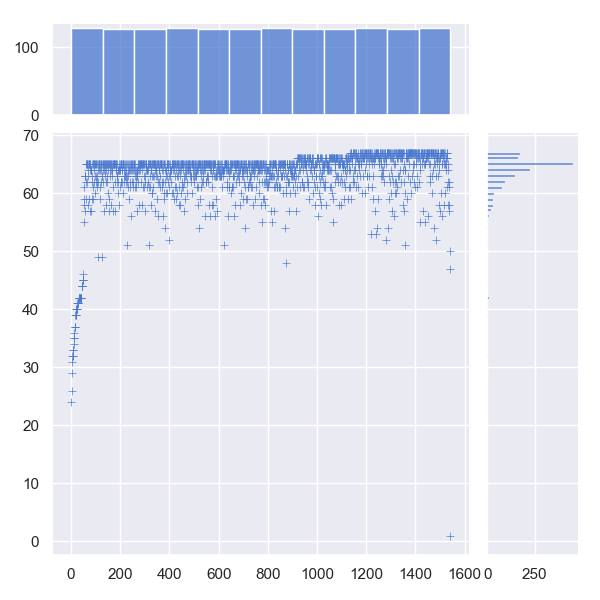
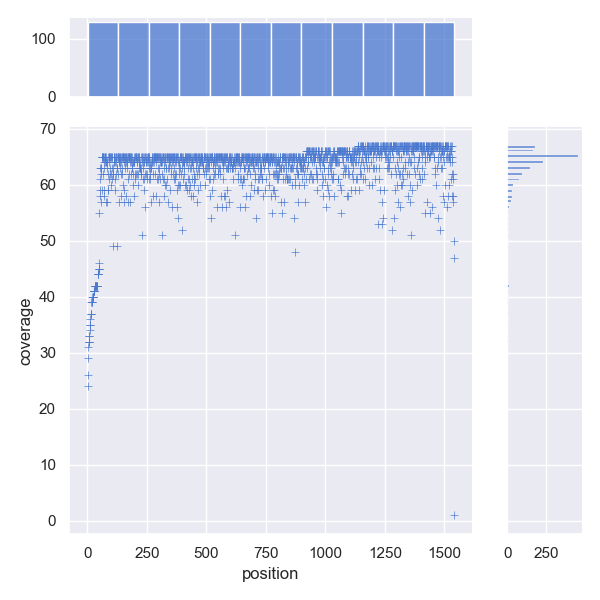
add violin and box mode

diff --git a/tmplot.py b/tmplot.py
@@ -21,7 +21,7 @@ def arg_parser():
             formatter_class = argparse.RawTextHelpFormatter)
 
     # mode option
-    parser.add_argument("mode", choices = ['plot', 'scatter', 'hist', 'bar', 'barh', 'pie', 'window', 'joint', 'empty'],
+    parser.add_argument("mode", choices = ['plot', 'scatter', 'hist', 'bar', 'barh', 'pie', 'window', 'joint', 'violin', 'box', 'empty'],
             help = 'choose plot mode'\
             '\nplot    : connect the dots and draw them.'\
             '\nscatter : NOT connect the dots and draw them.'\
@@ -31,6 +31,7 @@ def arg_parser():
             '\npie     : draw pie chart'\
             '\nwindow  : draw moving-average-line'\
             '\njoint   : draw jointplot'\
+            '\nviolin  : draw violin plot'\
             '\nempty   : draw NOTHING')
 
     # basic data option
@@ -78,10 +79,10 @@ def arg_parser():
     parser.add_argument("--ynorm", action = "store_true",
             help = "Flag whether inputed y data normalization"\
                     "If the data type is str, an error will occur")
-    parser.add_argument("--xstand", action = "store_true",
+    parser.add_argument("--xstd", action = "store_true",
             help = "Flag whether inputed x data standardization"\
                     "If the data type is str, an error will occur")
-    parser.add_argument("--ystand", action = "store_true",
+    parser.add_argument("--ystd", action = "store_true",
             help = "Flag whether inputed y data standardization"\
                     "If the data type is str, an error will occur")
 
@@ -200,8 +201,16 @@ def common_plotter(args):
             if args.hist_bins != 0:
                 bins = args.hist_bins
             if args.hist_bins != 0 and args.hist_bins_width != 0:
-                print("[WARN] When --hist-bins-width and --hist-bins are used together, --hist-bins takes precedence")
+                print("[WARN] When --hist-bins-width and --hist-bins are used together, --hist-bins takes precedence", file = stdout)
         print("[INFO] number of histogram bins : {}".format(bins), file = sys.stdout)
+
+    elif args.mode == "violin" or args.mode == "box":
+        if args.ydata != "-":
+            print("[WARN] If violin or box mode, inputed ydata is ignored", file = sys.stdout)
+        if args.xdata == "-":
+            xdata = data_from_pipe1(args.xtype)
+        else:
+            xdata = data_from_file(args.xdata, args.xtype)
 
     elif args.mode == "bar" or args.mode == "barh":
         xdata, ydata = data_parser(args)
@@ -213,11 +222,11 @@ def common_plotter(args):
     # data modify
     if args.xnorm == True:
         xdata = data_normalize(xdata)
-    if args.xstand == True:
+    if args.xstd == True:
         xdata = data_standardize(xdata)
     if args.ynorm == True:
         ydata = data_normalize(ydata)
-    if args.ystand == True:
+    if args.ystd == True:
         ydata = data_standardize(ydata)
 
 
@@ -325,8 +334,19 @@ def common_plotter(args):
 
     elif args.mode == "joint":
         jointplot = sns.jointplot(x = xdata, y = ydata, ratio = args.joint_ratio , marginal_ticks=True, marker = args.joint_marker)
+        jointplot.ax_joint.set_xlabel(args.xlabel)
+        jointplot.ax_joint.set_ylabel(args.ylabel)
+        jointplot.figure.tight_layout()
+
+    elif args.mode == "violin":
+        violin = ax.violinplot([xdata])
         if args.label != None:
-            legend_list.append(jointplot)
+            legend_list.append(violin)
+
+    elif args.mode == "box":
+        box = ax.boxplot([xdata])
+        if args.label != None:
+            legend_list.append(box)
 
     elif args.mode == "empty":
         pass

diff --git a/README.md b/README.md
@@ -29,7 +29,6 @@ sed -e "1i#\!$(which python3)" -i tmplot.py
 
 ## Update
 ~~~sh
-git fetch origin main && \
 git fetch origin main && git reset --hard origin/main && \
 sed -e "1i#\!$(which python3)" -i tmplot.py
 ~~~
@@ -80,11 +79,19 @@ sed -e "1i#\!$(which python3)" -i tmplot.py
 </a>
 
 <a href=#window1>
-    <img src="img/window1.png" class="galleryIterm" width=200px></img>
+    <img src="img/window1.png" class="galleryItem" width=200px></img>
 </a>
 
 <a href=#joint1>
-    <img src="img/joint1.png" class="galleryIterm" width=200px></img>
+    <img src="img/joint1.png" class="galleryItem" width=200px></img>
+</a>
+
+<a href=#violin1>
+    <img src="img/violin1.png" class="galleryItem", width=200px></img>
+</a>
+
+<a href=#box1>
+    <img src="img/box1.png" class="galleryItem", width=200px></img>
 </a>
 
 <a href=#empty1>
@@ -107,7 +114,7 @@ for i in {0..100}; do echo ""; done | awk '{print rand(), rand()}' | tmplot.py s
 <a id="hist1"></a>
 Ex. hist1
 ~~~sh
-cat data/grauss.0.1.10k.txt | tmplot.py hist -x - -y - -p hist1 -t t=p --label gauss.0.1.10k --hist-peak-highlight
+cat data/gauss.0.1.10k.txt | tmplot.py hist -x - -y - -p hist1 -t t=p --label gauss.0.1.10k --hist-peak-highlight
 ~~~
 
 <a id="hist2"></a>
@@ -119,7 +126,7 @@ for i in {0..100}; do echo ""; done | awk '{print rand()}' | tmplot.py hist -x -
 <a id="hist2"></a>
 Ex. hist3
 ~~~sh
-cat data/grauss.0.1.10k.txt | awk '{if($1 > 0){print $0}}' | tmplot.py hist -x - -y - --xlog --hist-bins 100 -p hist3 -t t=p --color blue --ylog --xlim "[0:100]"
+cat data/gauss.0.1.10k.txt | awk '{if($1 > 0){print $0}}' | tmplot.py hist -x - -y - --xlog --hist-bins 100 -p hist3 -t t=p --color blue --ylog --xlim "[0:100]"
 ~~~
 
 <a id="bar1"></a>
@@ -149,7 +156,19 @@ cat data/window_data.txt| tmplot.py window -x - -y - --window-size 50 -p window1
 <a id="joint1"></a>
 Ex. joint1
 ~~~sh
-cat data/window_data.txt | tmplot.py joint -x - -y - -p joint1 -t t=p -xl position -yl coverage
+cat data/window_data.txt | tmplot.py joint -x - -y - -p joint1 -xl position -yl coverage
+~~~
+
+<a id="violin1"></a>
+Ex. violin1
+~~~sh
+cat data/gauss.4.5.10k.txt | tmplot.py violin -x - -y - -p violin1 -xl gauss.4.5.10k -yl Distribution -t t=p
+~~~
+
+<a id="box1"></a>
+Ex. box1
+~~~sh
+cat data/gauss.3.3.20k.txt | tmplot.py box -x - -y - -xl gauss.3.3.20k -yl Distribution -p box1 -t t=p
 ~~~
 
 <a id="empty1"></a>
@@ -167,7 +186,7 @@ tmplot.py empty -x - -y - -xl e1 -yl e2 -p empty1 -t t=p --xline "[1,2,3]" --yli
 | PNG output                                        | O                   | default output                                                                    |
 | JPG output                                        | O                   | --jpg                                                                             |
 | PDF output                                        | O                   | --pdf                                                                             |
-| ps output                                         | O                   | -ps                                                                               |
+| ps output                                         | O                   | --ps                                                                              |
 | delimiter characters in PIPE input                | O                   | -s / --split  "\t"                                                                |
 | Specify input data type in xdata, ydata           | O                   | --xtype int, --xtype float, --xtype str, (ydata is the same way)                  |
 | set picture title                                 | O                   | --title title                                                                     |
@@ -179,8 +198,8 @@ tmplot.py empty -x - -y - -xl e1 -yl e2 -p empty1 -t t=p --xline "[1,2,3]" --yli
 | Draw a barplot                                    | O                   | cat test.txt &#124; tmplot.py bar -x - -y -                                       |
 | Draw a pie chart                                  | O                   | cat test.txt &#124; tmplot.py pie -x - -y -                                       |
 | Draw a bar chart                                  | O                   | cat test.txt &#124; tmplot.py bar -x - -y -                                       |
-| Draw a violin plot                                | X                   | Not supported due to differences in data structure                                |
-| Draw a box plot                                   | X                   | Not supported due to differences in data structure                                |
+| Draw a violin plot                                | X                   | Only one of the x data is supported in the data structure                         |
+| Draw a box plot                                   | X                   | Only one of the x data is supported in the data structure                         |
 | Draw NOTHING                                      | O                   | cat test.txt &#124; tmploy.py empy -x - -y -                                      |
 | Draw additional perpendicular line to the axis    | O                   | --xline "[0.3,-0.1,0.5]" (yline is the same way)                                  |
 | Change additional perpenddicular line to the axis | O                   | --xline-color black                                                               |
@@ -192,7 +211,7 @@ tmplot.py empty -x - -y - -xl e1 -yl e2 -p empty1 -t t=p --xline "[1,2,3]" --yli
 | Change color of main mode drawings                | O                   | -c / --color green                                                                |
 | sort input data                                   | X                   | use: sort command                                                                 |
 | normalize input data                              | O                   | --xnorm, --ynorm                                                                  |
-| standardize input data                            | O                   | --xstand, --ystand                                                                |
+| standardize input data                            | O                   | --xstd, --ystd                                                                    |
 | Drawing range on x-axis, y-axis                   | O                   | --xlim "[1:10]" (ylim is the same way)                                            |
 | Cut off input data at maximum and minimum values  | X                   | use: --xlim or --ylim or awk                                                      |
 | Perform the same process on all input data.       | X                   | use: awk '{print $1 * 2, $2 + 10}'                                                |
